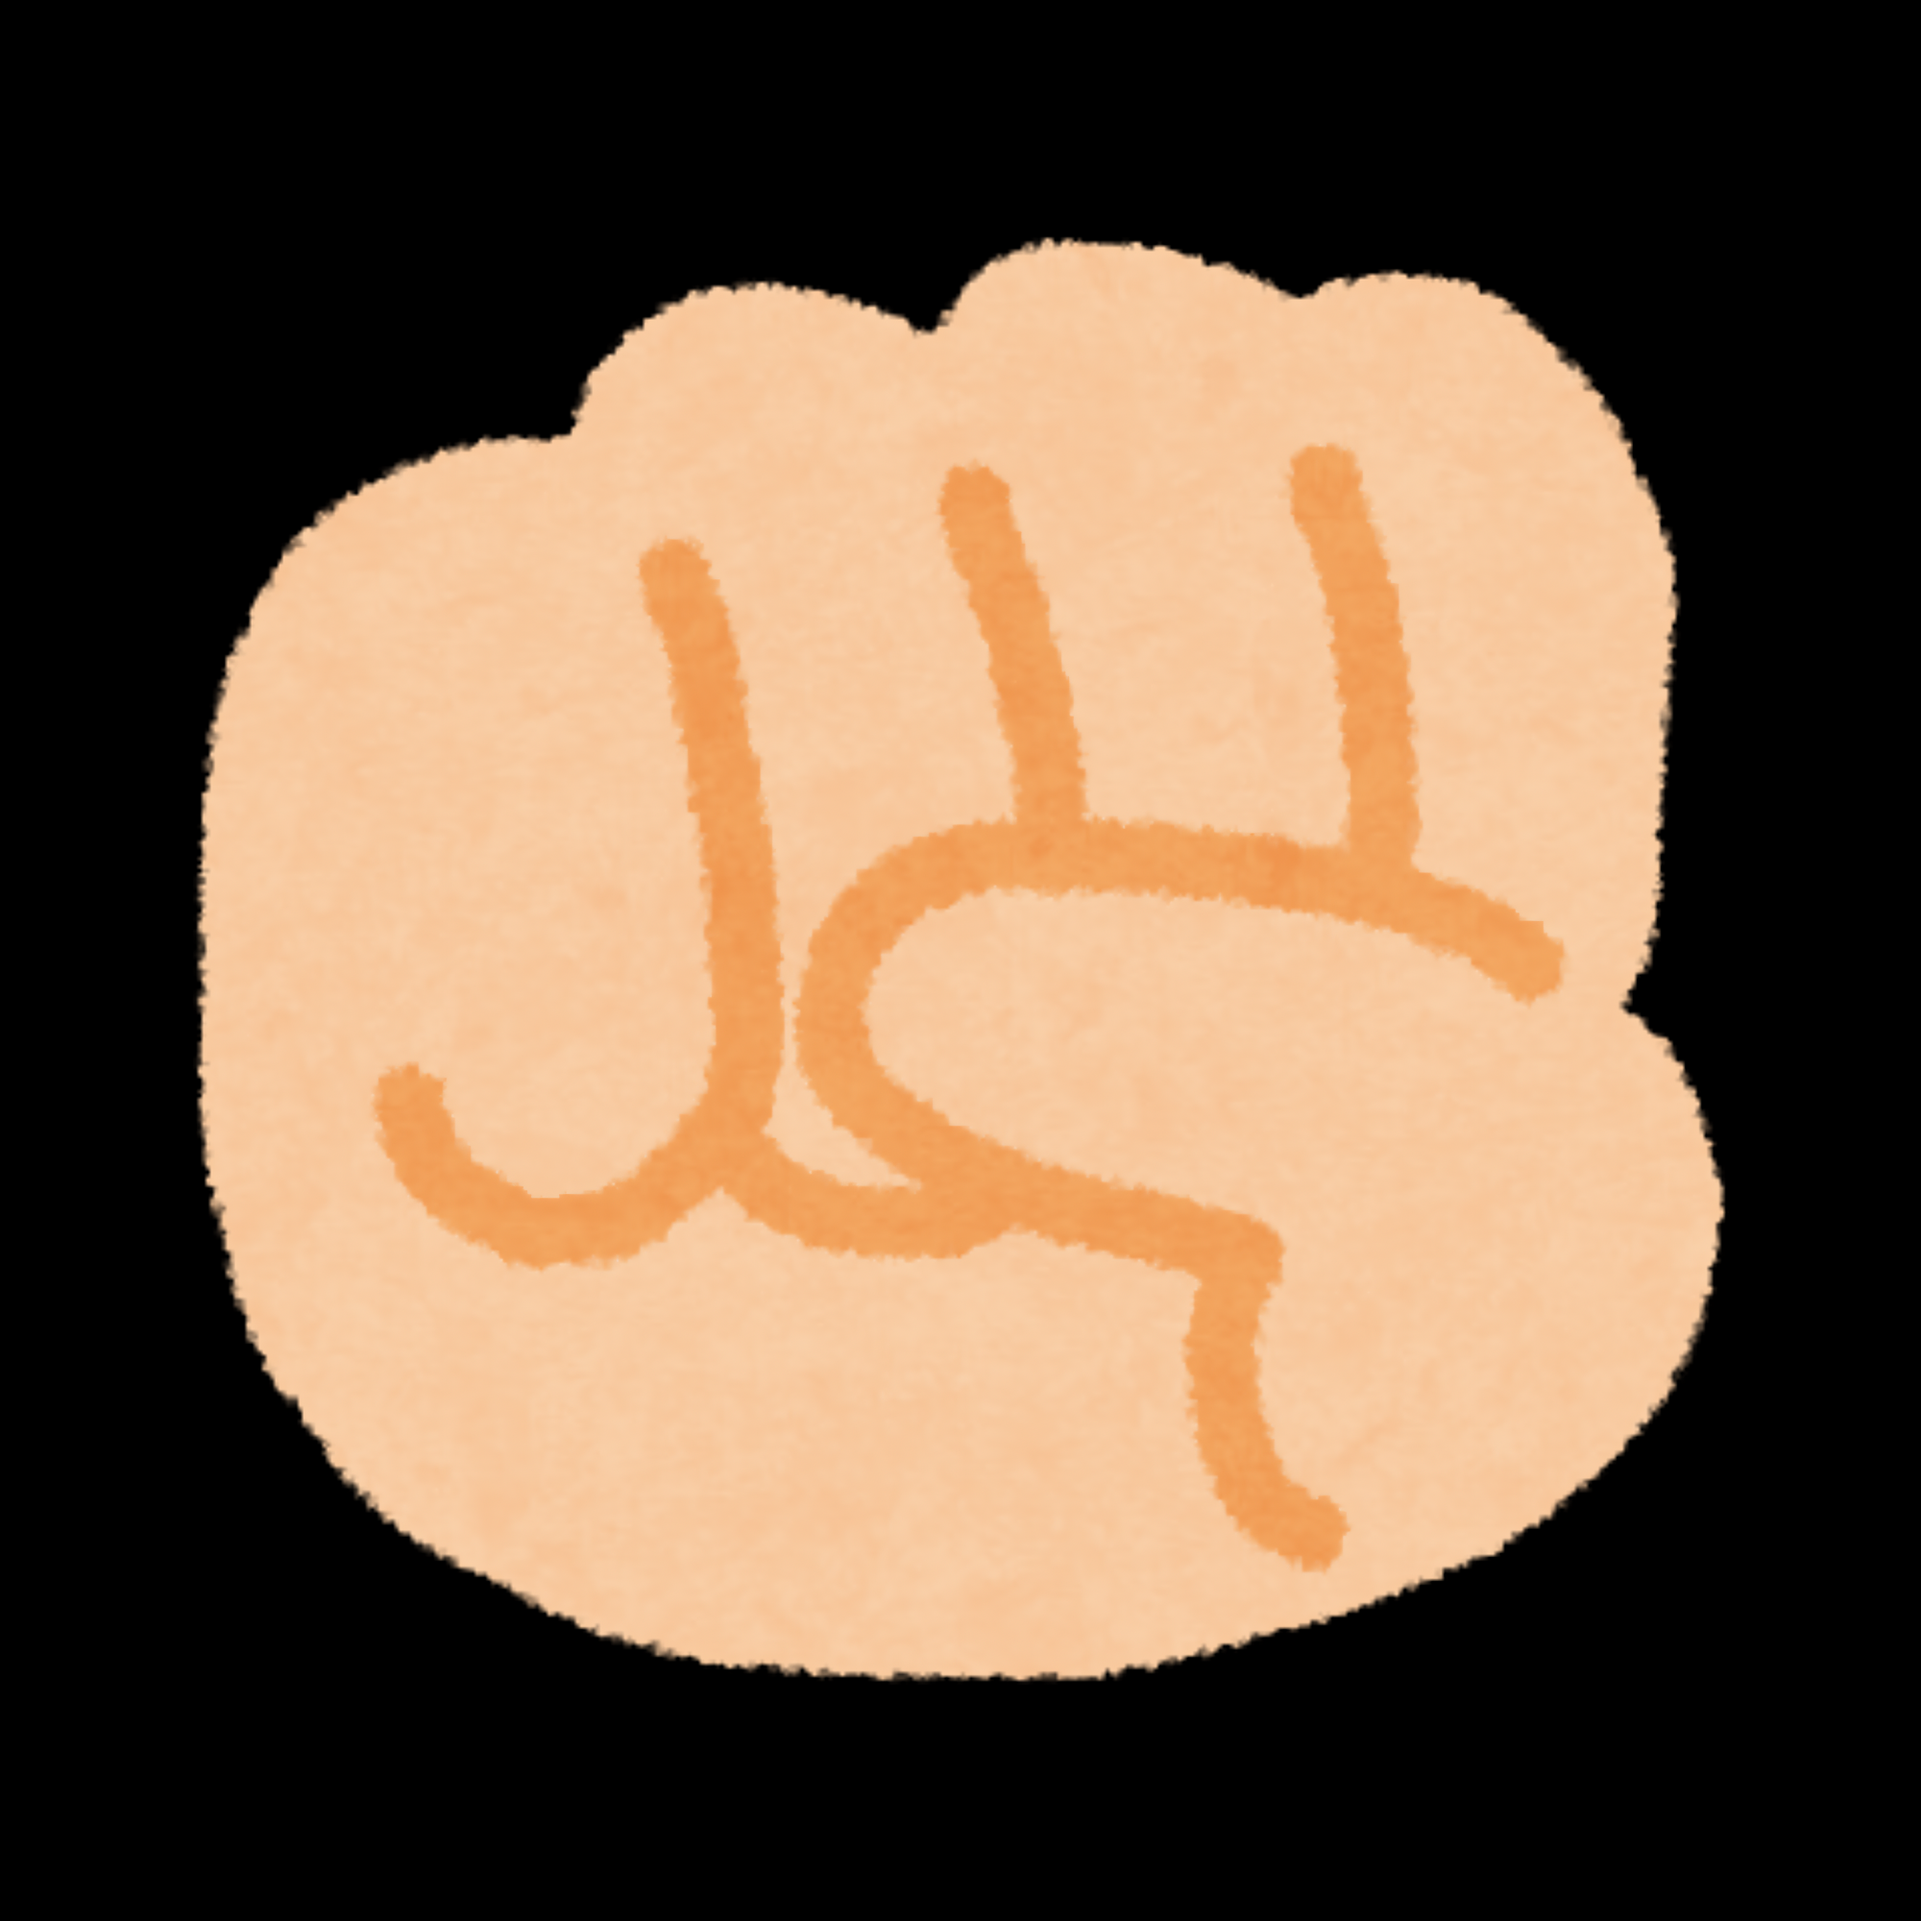
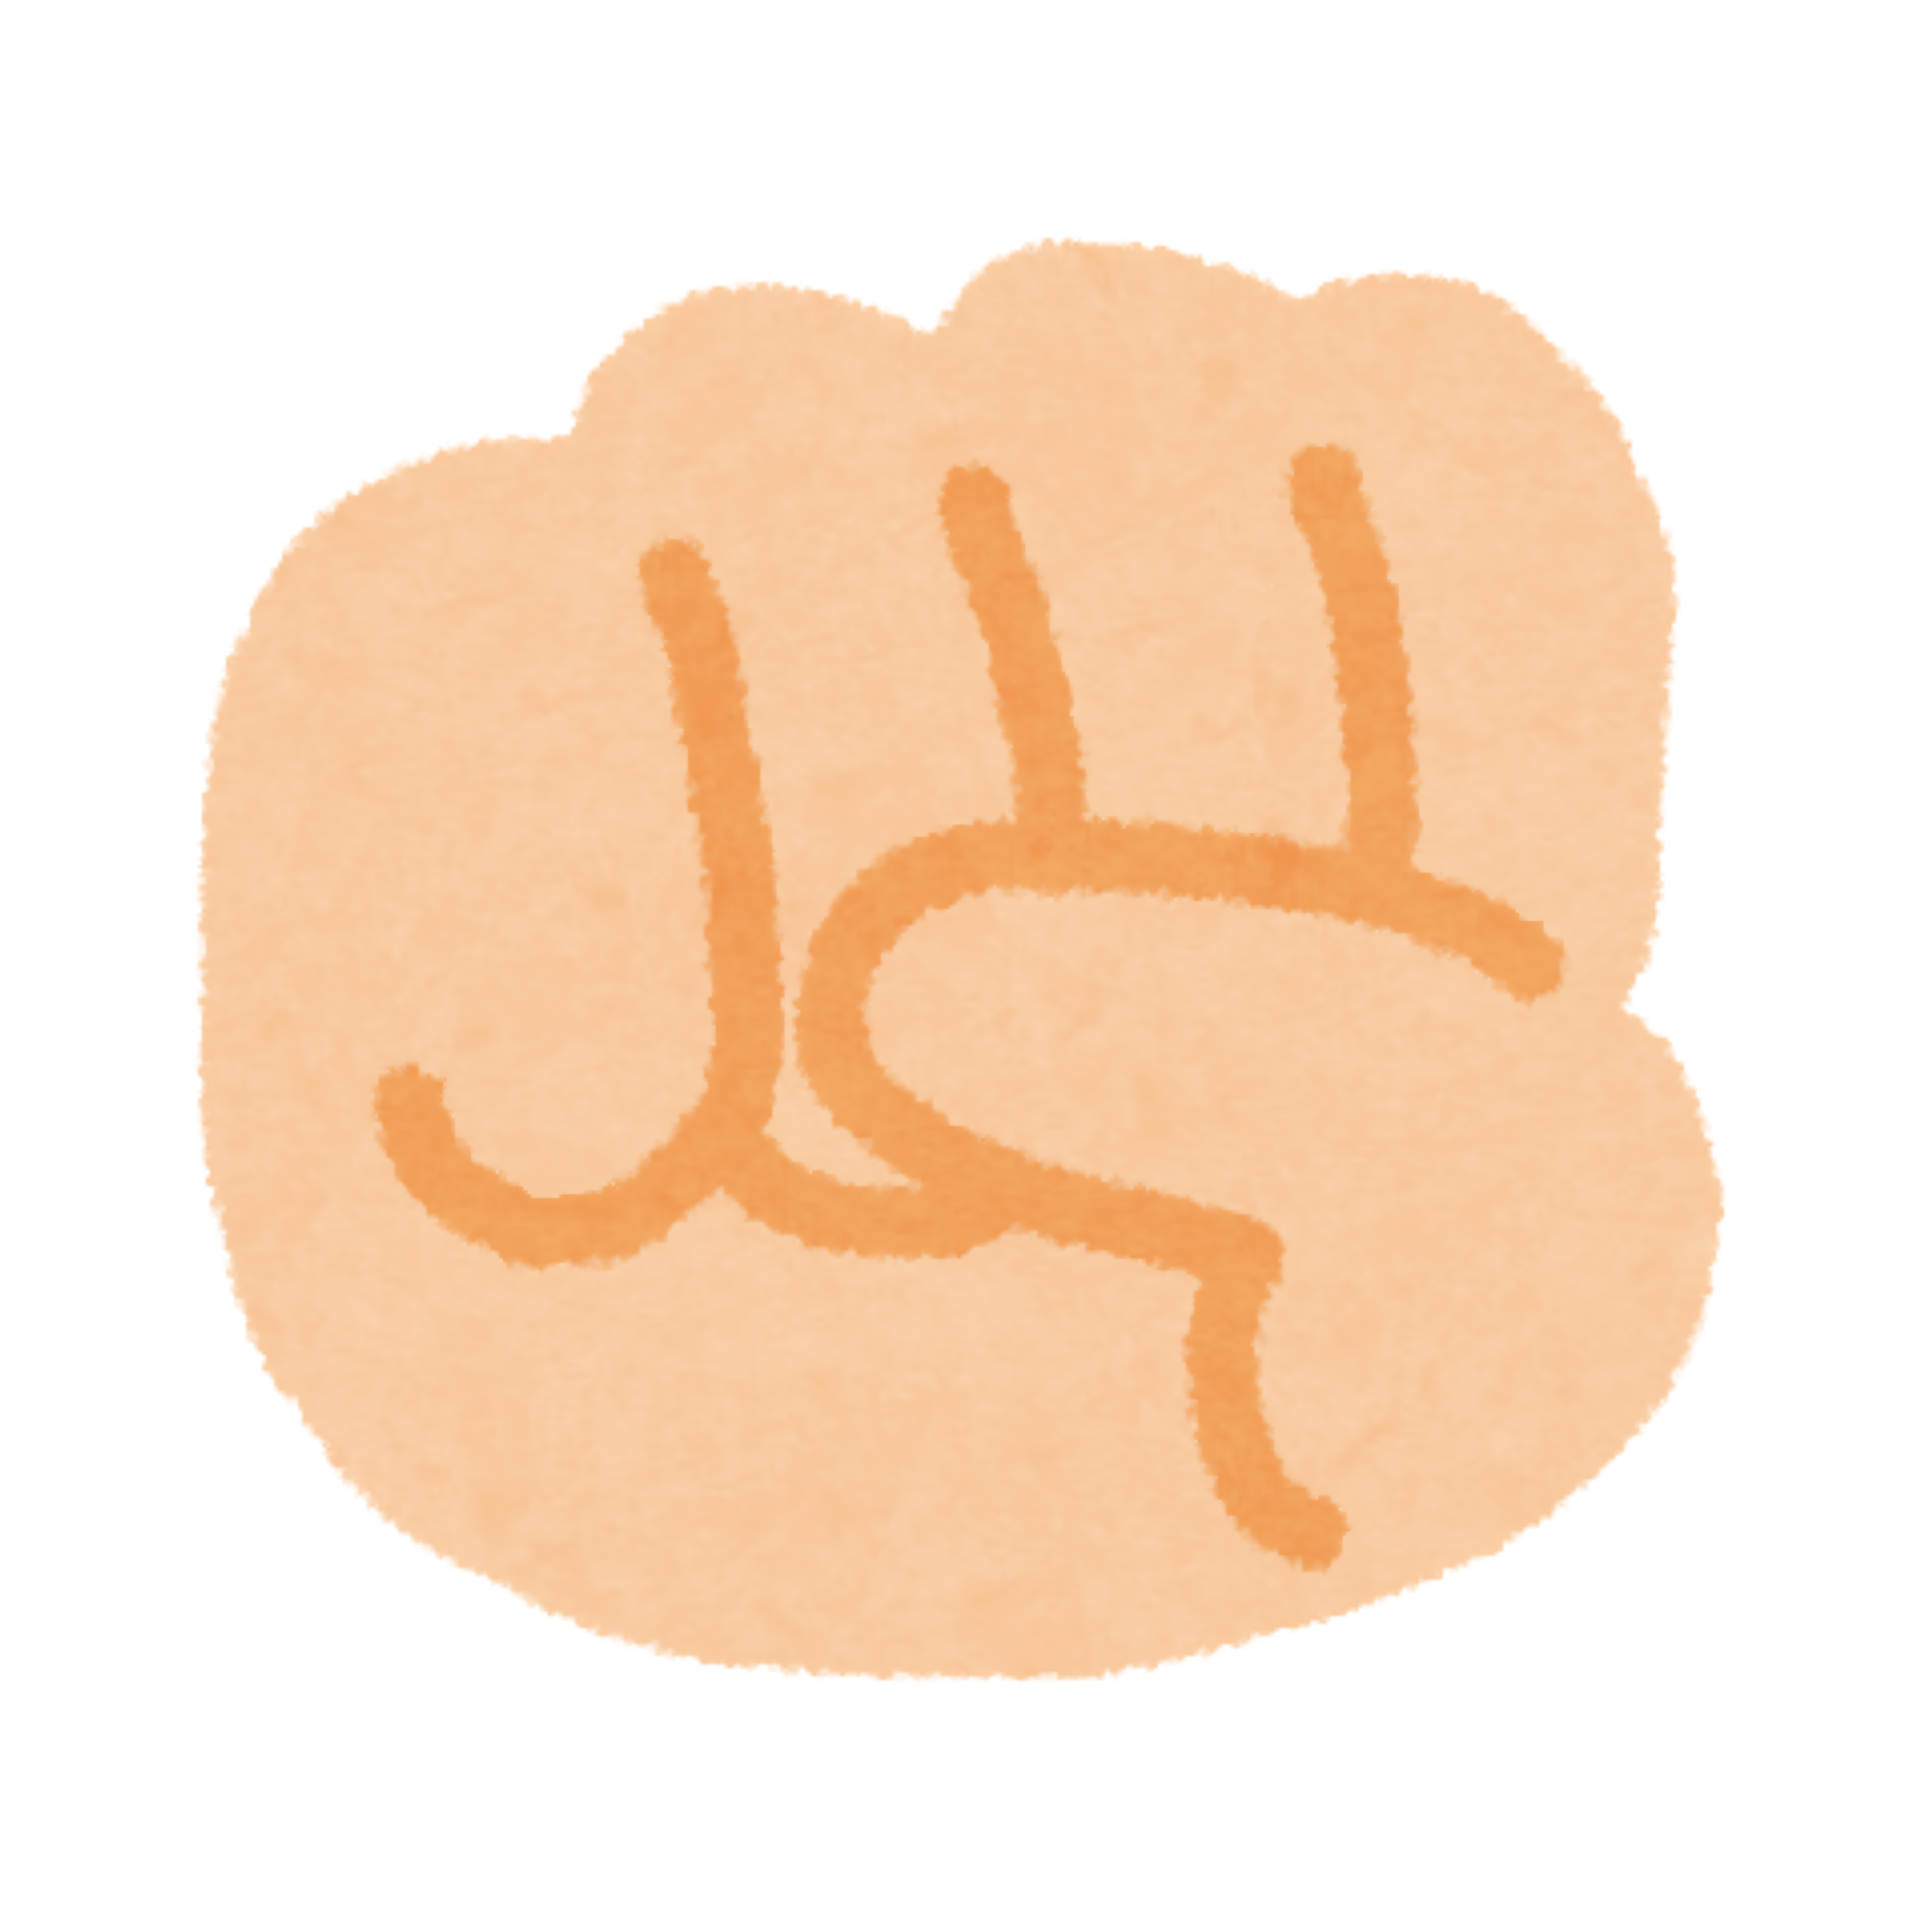
Create a display framework

diff --git a/assets/css/style.css b/assets/css/style.css
@@ -1,0 +1,184 @@
+:root {
+  --primary: #00e5ff;
+  --secondary: #ff00ff;
+
+  --rock: #9ca3af;
+  --paper: #00e5ff;
+  --scissors: #ff6b35;
+
+  --background: #0b1020;
+  --surface: #111827;
+  --text: #ffffff;
+
+  --choice-size: 50px;
+}
+
+body {
+  min-height: 100vh;
+  display: flex;
+  justify-content: center;
+  align-items: center;
+
+  font-family: "Inter", sans-serif;
+  background-color: var(--background);
+  color: var(--text);
+
+  padding: 1rem;
+}
+
+.container {
+  width: min(90%, 500px);
+  padding: 2rem;
+  background-color: var(--surface);
+  border-radius: 20px;
+}
+
+h1 {
+  margin-bottom: 3rem;
+
+  font-family: "Orbitron", sans-serif;
+  font-size: 1.8rem;
+  font-weight: bold;
+  text-align: center;
+  color: var(--primary);
+  line-height: 1.3;
+}
+
+h1 span {
+  display: block;
+  font-size: 1.5rem;
+  margin-top: 0.25rem;
+}
+
+section {
+  display: flex;
+  flex-direction: column;
+  gap: 2.5rem;
+}
+
+h2 {
+  font-size: 1rem;
+  font-weight: 600;
+}
+
+.computer {
+  display: flex;
+  flex-direction: column;
+  align-items: center;
+  gap: 1rem;
+}
+
+.computer img {
+  width: var(--choice-size);
+  padding: 0.5rem;
+  background-color: var(--secondary);
+  border-radius: 50%;
+}
+
+.result {
+  display: inline-flex;
+  place-self: center;
+  justify-content: center;
+
+  padding: 1rem 4rem;
+
+  background-color: #000;
+  border-radius: 12px;
+}
+
+.result p {
+  font-weight: bold;
+  font-size: 1rem;
+}
+
+.player {
+  display: flex;
+  flex-direction: column-reverse;
+  align-items: center;
+  gap: 1rem;
+}
+
+.player img {
+  width: var(--choice-size);
+  padding: 0.5rem;
+  margin: 0 0.35rem;
+  border-radius: 50%;
+  transition: all 0.3s ease;
+}
+
+.player img[alt="Batu"] {
+  background-color: var(--rock);
+}
+
+.player img[alt="Gunting"] {
+  background-color: var(--scissors);
+}
+
+.player img[alt="Kertas"] {
+  background-color: var(--paper);
+}
+
+.player img:hover {
+  cursor: pointer;
+  opacity: 0.8;
+  transform: translateY(-4px);
+}
+
+/* Tablet (768px ke atas)    */
+@media (min-width: 768px) {
+  :root {
+    --choice-size: 70px;
+  }
+
+  .container {
+    max-width: 700px;
+  }
+
+  h1 {
+    font-size: 3rem;
+  }
+
+  h1 span {
+    font-size: 2.5rem;
+  }
+
+  h2 {
+    font-size: 1.1rem;
+  }
+
+  .result p {
+    font-size: 1.1rem;
+  }
+}
+
+/* Desktop (1024px ke atas)  */
+@media (min-width: 1024px) {
+  :root {
+    --choice-size: 90px;
+  }
+
+  .container {
+    max-width: 900px;
+    padding: 3rem;
+  }
+
+  h1 {
+    font-size: 3.2rem;
+  }
+
+  h1 span {
+    font-size: 2.5rem;
+  }
+
+  h2 {
+    font-size: 1.2rem;
+  }
+
+  section {
+    gap: 4rem;
+  }
+
+  .player img:hover {
+    transform: translateY(-6px) scale(1.05);
+  }
+}

diff --git a/index.html b/index.html
@@ -28,6 +28,40 @@
     <!-- Style -->
     <link rel="stylesheet" href="assets/css/reset.css" />
     <link rel="stylesheet" href="assets/css/style.css" />
+
+    <!-- Font -->
+    <link rel="preconnect" href="https://fonts.googleapis.com" />
+    <link rel="preconnect" href="https://fonts.gstatic.com" crossorigin />
+    <link
+      href="https://fonts.googleapis.com/css2?family=Orbitron:wght@400..900&display=swap"
+      rel="stylesheet"
+    />
   </head>
-  <body></body>
+  <body>
+    <div class="container">
+      <h1>Game <span>Gunting Batu Kertas</span></h1>
+
+      <section>
+        <!-- Computer -->
+        <div class="computer">
+          <h2>Komputer</h2>
+          <img src="assets/images/tanda-tanya.png" alt="Komputer" />
+        </div>
+
+        <div class="result">
+          <p>Hasil</p>
+        </div>
+
+        <!-- Player -->
+        <div class="player">
+          <h2>Klik pilihan kamu!</h2>
+          <div>
+            <img src="assets/images/Gunting.png" alt="Gunting" />
+            <img src="assets/images/batu.png" alt="Batu" />
+            <img src="assets/images/Kertas.png" alt="Kertas" />
+          </div>
+        </div>
+      </section>
+    </div>
+  </body>
 </html>
